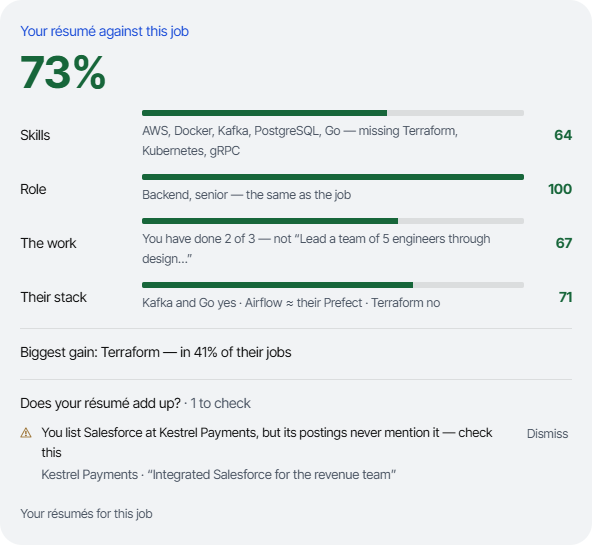
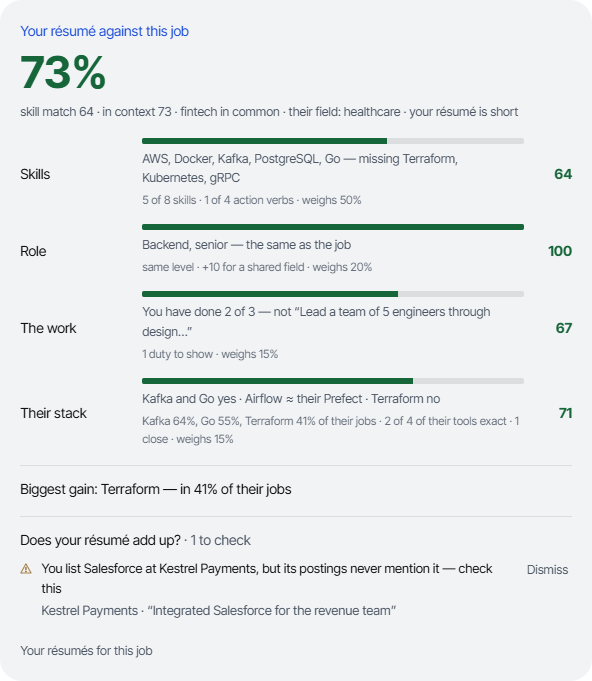
The ATS card states its figures (owner 11-20: "can definitely put more stats out ... doesn't necessarily need to elaborate, just state more to add context").
shared/contextualView.js atsCardView gives each part a facts list and the card one, all from what the scorer already computed (no model, no new read): Skills - n of m skills, the years asked / shown, must-haves missing, n of m action verbs, the seniority cap, its weight; Role - levels apart or same level, the shared-field lift, its weight; The work - duties left to show (the line already says n of m), its weight; Their stack - their top three technologies' shares of their jobs (exact, close and missing alike), n of m of their tools exact and n close, its weight; the card - skill match vs in context, fields in common, their field, a short résumé. A weight is said only when the part is not the whole score. AtsCard draws them as one quiet row under each line and one under the number. Resume Master's card says the same (resume-master 1ddb915).

Verified: +1 test d192ContextualView (13 / 13 with d192ContextualDraft); walkContextual46x 30 / 30 with a new check that every part and the card state figures (two themes x 1440 / 400; shots updated); fast tier 6,297 / 0.

diff --git a/shared/contextualView.js b/shared/contextualView.js
@@ -6,7 +6,11 @@
 //
 // atsCardView({ report, contextual }) → null | {
 //   declined: false, score,                         the number: the contextual one, else the skill match
-//   parts: [{ id, name, score, line }],             Skills · Role · The work · Their stack — those with data, in that order
+//   parts: [{ id, name, score, line, facts }],      Skills · Role · The work · Their stack — those with data, in that order
+//   facts: [string],                                 ⭐ 46z (owner 11-20: "can definitely put more stats out … just state more to
+//                                                    add context"): short figures the scorer already computed — counts, years,
+//                                                    each part's weight, their stack's shares, a shared field. Stated, never
+//                                                    explained; under each part's line, and one row for the whole card.
 //   gain: { text, tech? } | null,                    the single biggest gain (a stack gap → its Atlas page when one exists)
 // } | { declined: true, reason }                      the scorer declined: said in words, never a number
 // ⛔ No model (D190): every word is a template over the report's and the block's own fields.
@@ -62,6 +66,61 @@ function stackLine(p) {
   return bits.join(" · ");
 }
 
+const pct = (x) => `${Math.round(x * 100)}%`;
+const count = (xs) => (Array.isArray(xs) ? xs.length : 0);
+const weighs = (part) => (Number.isFinite(part?.weight) && part.weight > 0 && part.weight < 1 ? `weighs ${pct(part.weight)}` : "");   // the whole score: nothing to say
+function skillFacts(report, part) {
+  const have = count(report?.tier1_matched), miss = count(report?.tier1_missing);
+  const out = [];
+  if (have + miss) out.push(`${have} of ${have + miss} skills`);
+  const ex = report?.experience || {};
+  if (Number.isFinite(ex.requiredYears)) out.push(`${ex.requiredYears}+ yrs asked${Number.isFinite(ex.candidateYears) ? ` · you show ${ex.candidateYears}` : ""}`);
+  else if (Number.isFinite(ex.candidateYears)) out.push(`you show ${ex.candidateYears} yrs`);
+  const hard = count(report?.hard_constraint_misses);
+  if (hard) out.push(`${hard} must-have${hard === 1 ? "" : "s"} missing`);
+  const v = count(report?.action_verbs_matched), vm = count(report?.action_verbs_missing);
+  if (v + vm) out.push(`${v} of ${v + vm} action verbs`);
+  if (report?.seniority_cap?.applied) out.push("capped for seniority");
+  const w = weighs(part); if (w) out.push(w);
+  return out;
+}
+function roleFacts(p) {
+  const out = [];
+  const g = Math.abs(p.level_gap || 0);
+  if (g) out.push(`${g} level${g === 1 ? "" : "s"} apart`);
+  else if (p.posting?.level && p.posting.level === p.resume?.level) out.push("same level");
+  if (p.domain_lift) out.push(`+${p.domain_lift} for a shared field`);
+  const w = weighs(p); if (w) out.push(w);
+  return out;
+}
+function workFacts(p) {
+  const out = [];
+  const left = count(p.missing);   // the line already says "n of m"; the figure here is what's left to show
+  if (left) out.push(`${left} dut${left === 1 ? "y" : "ies"} to show`);
+  const w = weighs(p); if (w) out.push(w);
+  return out;
+}
+function stackFacts(p) {
+  const out = [];
+  const shares = [...(p.exact || []), ...(p.ecosystem || []).map(e => ({ tech: e.theirs, share: e.share })), ...(p.gaps || [])]
+    .filter(x => x.tech && shareOf(x) > 0).sort((a, b) => shareOf(b) - shareOf(a)).slice(0, 3);
+  if (shares.length) out.push(`${shares.map(x => `${bare(x.tech)} ${pct(shareOf(x))}`).join(", ")} of their jobs`);
+  const n = count(p.exact) + count(p.ecosystem) + count(p.gaps);
+  if (n) out.push(`${count(p.exact)} of ${n} of their tools exact${count(p.ecosystem) ? ` · ${count(p.ecosystem)} close` : ""}`);
+  const w = weighs(p); if (w) out.push(w);
+  return out;
+}
+function cardFacts(report, c, skill) {
+  const out = [];
+  if (c && Number.isFinite(c.score) && c.score !== skill) out.push(`skill match ${skill} · in context ${c.score}`);
+  const domains = (c?.similarities?.domains || []).map(d => clean(String(d), 30)).filter(Boolean);
+  if (domains.length) out.push(`${join(domains)} in common`);
+  const theirs = (c?.dissimilarities || []).filter(d => d.kind === "domain").map(d => clean(String(d.theirs), 30)).filter(Boolean);
+  if (theirs.length) out.push(`their field: ${join(theirs.slice(0, 2))}`);
+  if (report?.resume_depth?.reason === "short_resume") out.push("your résumé is short");
+  return out;
+}
+
 export function atsCardView({ report = null, contextual = null } = {}) {
   if (!report && !contextual) return null;
   const skill = num(report?.score ?? contextual?.parts?.skill_match?.score);
@@ -72,11 +131,11 @@ export function atsCardView({ report = null, contextual = null } = {}) {
   const c = contextual && contextual.parts ? contextual : null;
   const parts = [];
   const line = skillsLine(report);
-  parts.push({ id: "skill_match", name: "Skills", score: skill, line });
+  parts.push({ id: "skill_match", name: "Skills", score: skill, line, facts: skillFacts(report, c?.parts?.skill_match) });
   const role = c?.parts?.role_fit, work = c?.parts?.responsibility_overlap, stack = c?.parts?.tech_stack;
-  if (role?.status === "ok" && num(role.score) != null) parts.push({ id: "role_fit", name: "Role", score: num(role.score), line: roleLine(role) });
-  if (work?.status === "ok" && num(work.score) != null) parts.push({ id: "responsibility_overlap", name: "The work", score: num(work.score), line: workLine(work) });
-  if (stack?.status === "ok" && num(stack.score) != null) parts.push({ id: "tech_stack", name: "Their stack", score: num(stack.score), line: stackLine(stack) });
+  if (role?.status === "ok" && num(role.score) != null) parts.push({ id: "role_fit", name: "Role", score: num(role.score), line: roleLine(role), facts: roleFacts(role) });
+  if (work?.status === "ok" && num(work.score) != null) parts.push({ id: "responsibility_overlap", name: "The work", score: num(work.score), line: workLine(work), facts: workFacts(work) });
+  if (stack?.status === "ok" && num(stack.score) != null) parts.push({ id: "tech_stack", name: "Their stack", score: num(stack.score), line: stackLine(stack), facts: stackFacts(stack) });
 
   // the single biggest gain: their most-used technology you don't show, else the skill the posting asks for most, else the work
   let gain = null;
@@ -84,5 +143,5 @@ export function atsCardView({ report = null, contextual = null } = {}) {
   if (gap) gain = { tech: clean(gap.tech, 60), text: `${clean(gap.tech, 60)}${shareOf(gap) ? ` — in ${Math.round(shareOf(gap) * 100)}% of their jobs` : ""}` };
   else if (words(report?.tier1_missing, 1).length) { const t = words(report.tier1_missing, 1)[0]; gain = { tech: t, text: `${t} — the posting asks for it` }; }
   else if ((work?.missing || []).length) gain = { text: `Show “${short(work.missing[0])}” on your résumé` };
-  return { declined: false, score: num(c?.score) ?? skill, parts, gain };
+  return { declined: false, score: num(c?.score) ?? skill, parts, gain, facts: cardFacts(report, c, skill) };
 }

diff --git a/test/d192ContextualView.test.js b/test/d192ContextualView.test.js
@@ -71,3 +71,27 @@ test("Home's held rows (owner 11-19: \"switch the held panel rows to colour too\
   assert.match(ink, /aria-label=\{atsBandLabel\(band\)\.label\}/, "a legacy row with only a band: a dot, the word only as its accessible name");
   assert.doesNotMatch(ink.replace(/^\s*\/\/.*$/gm, ""), /#[0-9a-fA-F]{3,6}\b|rgba?\(/, "no colour literal");
 });
+
+test("46z (owner 11-20: 'can definitely put more stats out … just state more to add context'): every part states its figures, and the card one row", async () => {
+  const { scoreAtsLocally, scoreContextual } = await import("../services/localAtsScorer.js");
+  const resumeText = "Ada Synthetic\nSenior Software Engineer, Northwind, 2018 – 2024\n- Built React and TypeScript front ends\n- Led a Spring Boot service migration\nSkills: TypeScript, React, Java, Spring, PostgreSQL, AWS";
+  const jd = "Senior Software Engineer\nWhat you'll do\n- Design and build TypeScript and React features for patients\n- Own backend services in Node.js and PostgreSQL on AWS\n- Build dashboards in Looker\nRequirements\n- TypeScript, React, Node.js, PostgreSQL, AWS, Looker";
+  const report = scoreAtsLocally({ resumeText, job: { title: "Senior Software Engineer", description: jd } });
+  const contextual = scoreContextual({ skillMatch: report.score, skillsBoth: report.tier1_matched,
+    posting: { category: "software-engineering", subcategory: "swe.backend", level: "senior", text: jd },
+    resume: { category: "software-engineering", subcategory: "swe.fullstack", level: "mid", text: resumeText, tech: ["TypeScript", "React", "Spring"] },
+    company: { techStack: [{ name: "TypeScript", postingShare: 0.9 }, { name: "Node.js", postingShare: 0.7 }, { name: "Looker", postingShare: 0.4 }] } });
+  const v = atsCardView({ report, contextual });
+  const f = Object.fromEntries(v.parts.map(p => [p.name, p.facts.join(" · ")]));
+  assert.match(f.Skills, /^\d+ of \d+ skills/);
+  assert.match(f.Skills, /weighs 50%/);
+  assert.match(f.Role, /1 level apart/);
+  assert.match(f["The work"], /dut(y|ies) to show · weighs 15%/);
+  assert.match(f["Their stack"], /TypeScript 90%, Node\.js 70%, Looker 40% of their jobs/);
+  assert.match(f["Their stack"], /\d of 3 of their tools exact/);
+  assert.match(v.facts.join(" · "), /skill match \d+ · in context \d+/);
+  // a report alone (no contextual block) still states its counts, with no weight to state
+  const alone = atsCardView({ report: { score: 50, tier1_matched: ["aws", "go"], tier1_missing: ["grpc"], action_verbs_matched: ["Built"], action_verbs_missing: [] } });
+  assert.deepEqual(alone.parts[0].facts, ["2 of 3 skills", "1 of 1 action verbs"]);
+  assert.deepEqual(alone.facts, []);
+});

diff --git a/client/src/components/AtsCard.jsx b/client/src/components/AtsCard.jsx
@@ -39,6 +39,7 @@ export function AtsCard({ report = null, jobId = null, history = null, contextua
       ) : (
         <>
           <div data-ats-card-score style={{ fontSize: ts(44), fontWeight: 700, lineHeight: 1, color: atsInk(view.score) }}>{view.score}%</div>
+          {view.facts?.length > 0 && <div data-ats-card-facts="card" style={{ fontSize: ts(12.5), color: "var(--color-text-muted)", marginTop: -8, overflowWrap: "anywhere" }}>{view.facts.join(" · ")}</div>}
           <div style={{ display: "flex", flexDirection: "column", gap: 14 }}>
             {view.parts.map(p => (
               <div key={p.id} data-ats-card-part={p.id} style={{ display: "grid", gridTemplateColumns: "minmax(84px, 110px) minmax(0, 1fr) 36px", alignItems: "center", gap: 12 }}>
@@ -48,6 +49,8 @@ export function AtsCard({ report = null, jobId = null, history = null, contextua
                     <div style={{ height: 6, width: `${p.score}%`, background: atsInk(p.score) }} />
                   </div>
                   {p.line && <div style={{ fontSize: ts(12.5), color: "var(--color-text-muted)", overflowWrap: "anywhere" }}>{p.line}</div>}
+                  {/* ⭐ 46z (owner 11-20): the part's figures, stated — counts, shares, its weight */}
+                  {p.facts?.length > 0 && <div data-ats-card-facts={p.id} style={{ fontSize: ts(11.5), color: "var(--color-text-muted)", opacity: 0.85, overflowWrap: "anywhere" }}>{p.facts.join(" · ")}</div>}
                 </div>
                 <div style={{ fontSize: ts(14), fontWeight: 700, textAlign: "right", color: atsInk(p.score) }}>{p.score}</div>
               </div>
